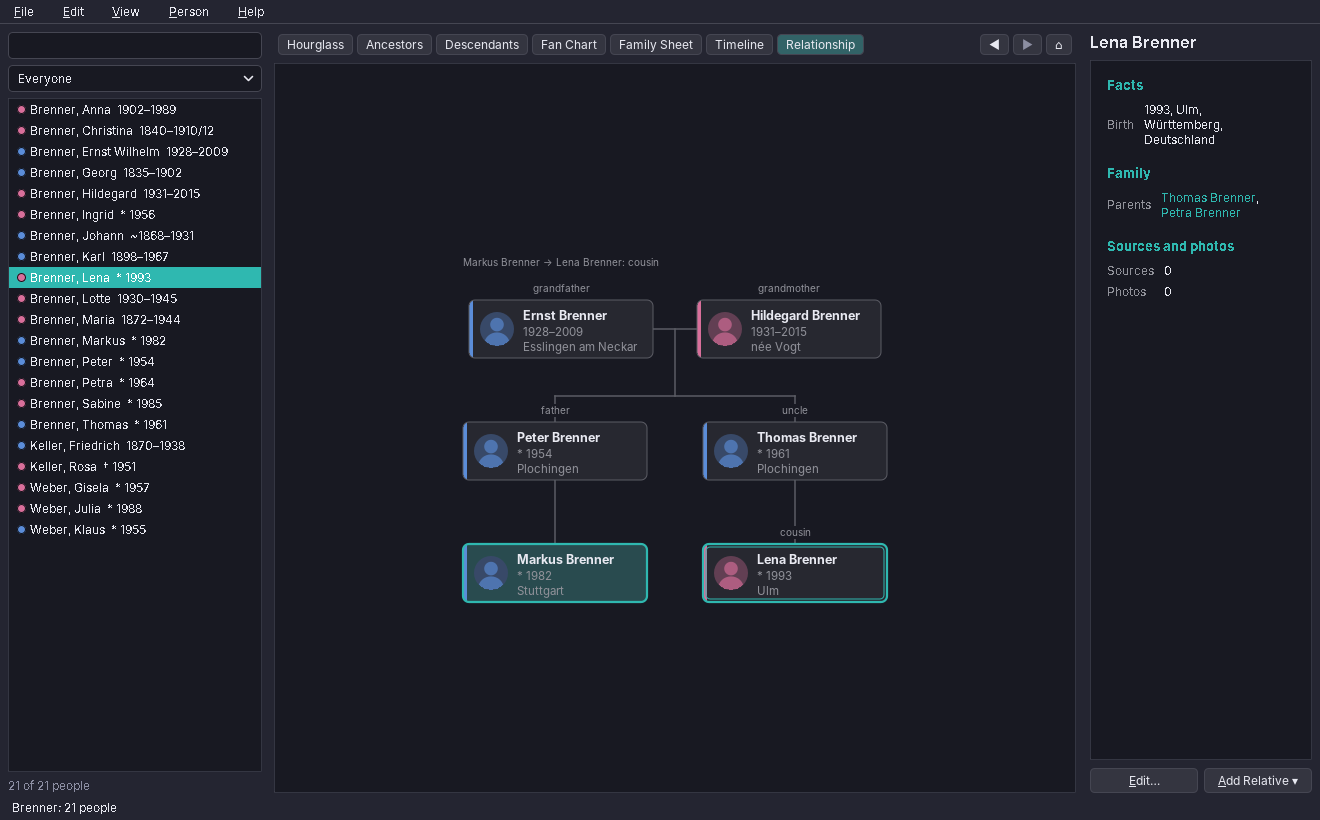
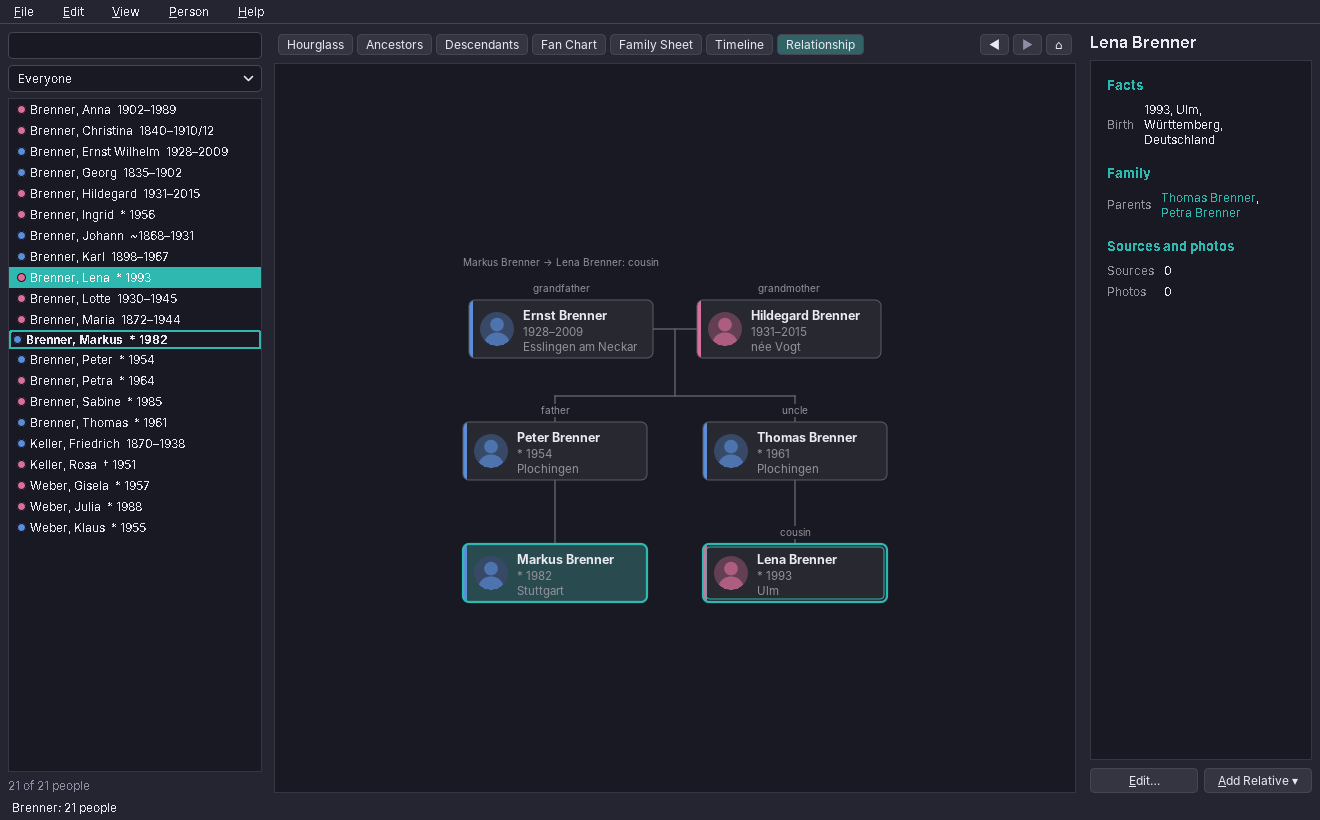
feat: frame the home person in the person list
Claude-Session: https://claude.ai/code/session_017Pd6Nau16zgZCKKBWpWdV3

Changed region(s): [[0.0, 0.3963, 0.1864, 0.6707], [0.0932, 0.6098, 0.1242, 0.6402]]

diff --git a/src/main/java/eu/amadeos/apps/familytree/ui/main/MainWindow.java b/src/main/java/eu/amadeos/apps/familytree/ui/main/MainWindow.java
@@ -160,6 +160,8 @@ public final class MainWindow extends JFrame implements MainView {
     /** What the chart was last built for, so that a new selection does not rebuild (and scroll) it. */
     private String builtFor = "";
     private boolean updating;
+    /** The id of the home person, marked in the list; null when there is none. */
+    private String homeId;
 
     public MainWindow(Messages msg, LocaleSettings locales, Executor background, String version) {
         super(msg.get("window.title"));
@@ -289,6 +291,16 @@ public final class MainWindow extends JFrame implements MainView {
                 super.getListCellRendererComponent(l, life.isEmpty() ? p.sortName() : p.sortName() + "  " + life,
                         index, sel, focus);
                 setIcon(AmadeUI.colorDot(ChartColors.current().sex(p.sex()), 9));
+                if (homeId != null && homeId.equals(p.id())) {
+                    // The home person ("me") has a frame, so the start of the relationship view is easy to find.
+                    setBorder(BorderFactory.createCompoundBorder(
+                            BorderFactory.createLineBorder(ChartColors.current().accent(), 2, true),
+                            BorderFactory.createEmptyBorder(0, 2, 0, 2)));
+                    setFont(getFont().deriveFont(Font.BOLD));
+                    setToolTipText(msg.get("list.home"));
+                } else {
+                    setToolTipText(null);
+                }
                 return this;
             }
         });
@@ -552,6 +564,12 @@ public final class MainWindow extends JFrame implements MainView {
             updating = false;
         }
         showDetails();
+    }
+
+    @Override
+    public void showHome(String personId) {
+        homeId = personId;
+        list.repaint();
     }
 
     @Override

diff --git a/src/main/java/eu/amadeos/apps/familytree/ui/main/MainPresenter.java b/src/main/java/eu/amadeos/apps/familytree/ui/main/MainPresenter.java
@@ -110,6 +110,7 @@ public final class MainPresenter {
         forward.clear();
         s.prefs().setLastTree(t.name());
         view.showTree(t, loaded);
+        showHome();
         Person start = home().orElseGet(() -> loaded.persons().stream().findFirst().orElse(null));
         root = start;
         selected = start;
@@ -137,6 +138,7 @@ public final class MainPresenter {
             if (view.editPerson(p, step, true)) {
                 undo.commit(step);
                 s.prefs().setHomePerson(t.name(), p.id());
+                showHome();
                 save();
                 root = p;
                 selected = p;
@@ -430,7 +432,12 @@ public final class MainPresenter {
     public void setHome() {
         if (selected == null || stored == null) return;
         s.prefs().setHomePerson(stored.name(), selected.id());
+        showHome();
         view.showStatus(msg.format("status.home", selected.fullName()));
+    }
+
+    private void showHome() {
+        view.showHome(home().map(Person::id).orElse(null));
     }
 
     public void showView(ViewKind kind) {

diff --git a/src/test/java/eu/amadeos/apps/familytree/ui/main/MainPresenterTest.java b/src/test/java/eu/amadeos/apps/familytree/ui/main/MainPresenterTest.java
@@ -267,4 +267,17 @@ class MainPresenterTest {
         assertEquals("I1", view.root.id());
         assertEquals("I12", view.selected.id());
     }
+
+    @Test
+    void theListMarksTheHomePerson() throws IOException {
+        brenner();
+        presenter.start(Optional.empty());
+        assertEquals(null, view.home, "no home person chosen yet");
+        presenter.select(person("I12"));
+        presenter.setHome();
+        assertEquals("I12", view.home);
+        prefs.setHomePerson("Brenner", "I1");
+        presenter.start(Optional.empty());
+        assertEquals("I1", view.home, "opening the tree marks its home person");
+    }
 }

diff --git a/src/main/java/eu/amadeos/apps/familytree/ui/main/MainView.java b/src/main/java/eu/amadeos/apps/familytree/ui/main/MainView.java
@@ -26,6 +26,9 @@ public interface MainView {
     /** {@code root} is the person the chart is about, {@code selected} the one the summary shows. */
     void showPerson(Person root, Person selected);
 
+    /** The home person ("me") changed: the list marks them. {@code personId} is null when there is none. */
+    void showHome(String personId);
+
     void showView(ViewKind view, int generations);
 
     void updateActions(boolean hasTree, boolean hasSelection, String undoLabel, String redoLabel, boolean back,

diff --git a/src/test/java/eu/amadeos/apps/familytree/ui/main/FakeView.java b/src/test/java/eu/amadeos/apps/familytree/ui/main/FakeView.java
@@ -23,6 +23,7 @@ public final class FakeView implements MainView {
     StoredTree tree;
     Person root;
     Person selected;
+    String home;
     ViewKind view;
     int generations;
     int refreshes;
@@ -63,6 +64,11 @@ public final class FakeView implements MainView {
     public void showPerson(Person r, Person s) {
         root = r;
         selected = s;
+    }
+
+    @Override
+    public void showHome(String personId) {
+        home = personId;
     }
 
     @Override

diff --git a/README.md b/README.md
@@ -22,7 +22,7 @@
   ![Person editor](docs/screenshots/amade-familytree-editor.png)
 - **Add relatives** from the selected person (father, mother, partner, son, daughter, brother, sister; the surname is filled in) or connect an existing person. Every change is saved at once and can be undone (Ctrl+Z, Ctrl+Y).
 - **Search** by name, place or year; names that sound alike are found too (Cologne phonetics: *Meyer* finds *Maier*). The list can show everyone, the same surname, ancestors or descendants of the person in the middle, people without parents, people who are probably alive, or people with dates kept as text.
-- **Relationship** view (Ctrl+7): the way from you (the home person) to the person you click in the list, like a route: the nearest common ancestors at the top, your line down on one side, theirs on the other, each person captioned with what they are to you (*grandfather*, *uncle*, *cousin*, *daughter-in-law*). A double-click starts the way at someone else. Ctrl+R names the relationship in a message: *great-great-grandmother*, *second cousin once removed*, *Schwager*, *arrière-grand-oncle*.
+- **Relationship** view (Ctrl+7): the way from you (the home person) to the person you click in the list, like a route: the nearest common ancestors at the top, your line down on one side, theirs on the other, each person captioned with what they are to you (*grandfather*, *uncle*, *cousin*, *daughter-in-law*). The home person has a frame in the list. A double-click starts the way at someone else. Ctrl+R names the relationship in a message: *great-great-grandmother*, *second cousin once removed*, *Schwager*, *arrière-grand-oncle*.
 
   ![Relationship](docs/screenshots/amade-familytree-relationship.png)
 - **GEDCOM export** as 7.0, 5.5.1 (for older programs) or GEDZIP with photos. People marked private are always left out; people who are probably alive (born less than 110 years ago, no death) can be written in full, shortened to surname, sex and family links, or left out.
